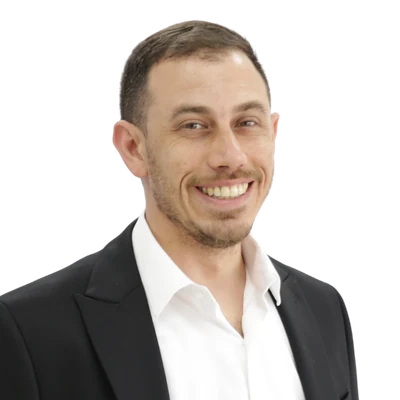
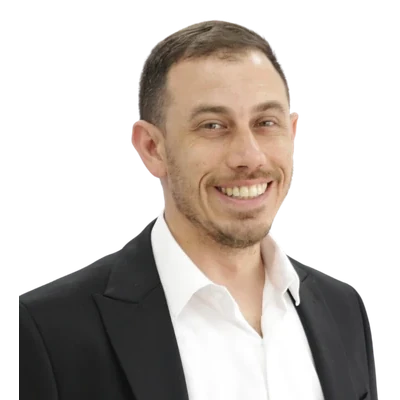
Fix image centering (video poster, half-body portrait) and floating dock/accessibility overlap on mobile
Claude-Session: https://claude.ai/code/session_01CgQkW4uu6py8E592ZgRHUt

Changed region(s): [[0.0, 0.03, 0.96, 1.0], [0.3, 0.93, 0.36, 1.0], [0.27, 0.84, 0.3, 0.93]]

diff --git a/assets/css/tico.css b/assets/css/tico.css
@@ -7,7 +7,7 @@
   color-scheme:light;
 }
 *,*::before,*::after{box-sizing:border-box}
-html{scroll-behavior:smooth;scroll-padding-top:96px}
+html{scroll-behavior:smooth;scroll-padding-top:104px}
 body{margin:0;background:var(--bg);color:var(--ink);font-family:var(--f-display);line-height:1.6;overflow-x:hidden;
   padding-left:max(16px,env(safe-area-inset-left,0px));padding-right:max(16px,env(safe-area-inset-right,0px));padding-block:0 0}
 .page{max-width:1200px;margin:0 auto}
@@ -393,7 +393,7 @@ footer.site{align-items:center}
 .meet,.community{margin-bottom:96px}
 .meet-grid{display:grid;grid-template-columns:1.15fr .85fr;gap:20px;margin-top:20px;align-items:stretch}
 .vid{position:relative;display:block;width:100%;min-height:360px;padding:0;border:0;cursor:pointer;border-radius:32px;overflow:hidden;background:linear-gradient(160deg,#3aa869,#2E8B57 55%,#1d6b40);box-shadow:0 30px 60px -30px rgba(46,139,87,.6)}
-.vid img{position:absolute;bottom:0;inset-inline-end:6%;height:96%;width:auto;filter:drop-shadow(0 20px 24px rgba(0,0,0,.25))}
+.vid img{position:absolute;bottom:0;left:50%;transform:translateX(-50%);height:96%;width:auto;filter:drop-shadow(0 20px 24px rgba(0,0,0,.25))}
 .vid .play{position:absolute;inset-inline-start:8%;top:50%;transform:translateY(-50%);width:96px;height:96px;border-radius:50%;background:#fff;color:var(--g-700);display:grid;place-items:center;box-shadow:0 16px 36px rgba(0,0,0,.25);transition:transform .3s var(--ease)}
 .vid .play svg{width:38px;height:38px;margin-inline-start:4px}
 .vid:hover .play{transform:translateY(-50%) scale(1.08)}
@@ -406,7 +406,7 @@ footer.site{align-items:center}
 .idcard dl{margin:0;display:grid;gap:14px}
 .idcard dt{font:700 11px var(--f-display);letter-spacing:.14em;color:var(--muted);margin-bottom:2px}
 .idcard dd{margin:0;font:700 19px/1.3 var(--f-serif);color:var(--ink)}
-@media(max-width:860px){.meet-grid{grid-template-columns:1fr}.vid{min-height:300px}.idbody{grid-template-columns:84px 1fr}.idph{width:84px;height:108px}.idph img{width:122px}}
+@media(max-width:860px){.meet-grid{grid-template-columns:1fr}.vid{min-height:300px}.vid .play{width:72px;height:72px;inset-inline-start:7%}.vid .play svg{width:28px;height:28px}.idbody{grid-template-columns:84px 1fr}.idph{width:84px;height:108px}.idph img{width:122px}}
 .comm-grid{display:grid;grid-template-columns:1.1fr .9fr;gap:20px;margin-top:20px}
 .pod{position:relative;display:flex;justify-content:space-between;gap:20px;padding:clamp(24px,4vw,40px);border-radius:32px;text-decoration:none;color:#fff;background:linear-gradient(160deg,#2E8B57,#1d6b40);overflow:hidden;transition:transform .25s var(--ease)}
 .pod-row{display:flex;gap:10px;flex-wrap:wrap;margin-top:10px}
@@ -470,7 +470,8 @@ body.a11y-spacing{line-height:2!important;letter-spacing:.04em!important}
 body.a11y-no-anim *,body.a11y-no-anim *::before,body.a11y-no-anim *::after{animation:none!important;transition:none!important}
 
 /* accessibility widget */
-.a11y{position:fixed;bottom:84px;left:16px;z-index:60}
+.a11y{position:fixed;bottom:16px;left:16px;z-index:60;transition:bottom .35s var(--ease)}
+body.dock-on .a11y{bottom:84px}
 .a11y-btn{width:52px;height:52px;border-radius:50%;border:0;cursor:pointer;display:grid;place-items:center;background:var(--g-950);color:#fff;box-shadow:0 8px 24px rgba(0,0,0,.28);transition:background .2s,transform .2s var(--ease)}
 .a11y-btn:hover{background:var(--g-600);transform:scale(1.06)}
 .a11y-panel{position:absolute;bottom:62px;left:0;width:268px;background:#fff;border:1px solid var(--line);border-radius:20px;box-shadow:0 24px 60px -12px rgba(0,0,0,.3);overflow:hidden;font-family:var(--f-display)}
@@ -487,7 +488,7 @@ body.a11y-no-anim *,body.a11y-no-anim *::before,body.a11y-no-anim *::after{anima
 .a11y-tog label{display:flex;justify-content:space-between;align-items:center;gap:10px;cursor:pointer;font-size:13px;font-weight:700}
 .a11y-tog input{width:18px;height:18px;accent-color:var(--g-600)}
 .a11y-stmt{display:block;text-align:center;padding:8px;color:var(--g-700);font-size:13px;font-weight:700;text-decoration:none}
-@media(max-width:900px){.a11y{bottom:92px}}
+@media(max-width:900px){.a11y{bottom:12px;left:12px}.a11y-btn{width:44px;height:44px}body.dock-on .a11y{bottom:84px}}
 
 /* page head used by inner pages */
 .phead{padding:28px 0 8px}
@@ -515,7 +516,7 @@ body.a11y-no-anim *,body.a11y-no-anim *::before,body.a11y-no-anim *::after{anima
 .split .copy p strong{color:var(--ink)}
 .split .pic{position:relative;height:460px;border-radius:32px;overflow:hidden;background:linear-gradient(160deg,#3aa869,#2E8B57 55%,#1d6b40)}
 .split .pic img{position:absolute;bottom:0;left:50%;transform:translateX(-50%);height:96%;width:auto;filter:drop-shadow(0 20px 24px rgba(0,0,0,.25))}
-.split .pic.sq img{height:auto;width:78%;bottom:-6%}
+.split .pic.sq img{height:auto;width:100%;max-width:none;bottom:-8%}
 @media(max-width:860px){.split{grid-template-columns:1fr}.split .pic{height:380px}}
 
 /* cards grid (the former "network" cards) */

diff --git a/assets/js/tico.js b/assets/js/tico.js
@@ -107,7 +107,11 @@
     if (!dock) return;
     var target = $('#finder') || $('#form'), hidden = false;
     if (target) { var r = target.getBoundingClientRect(); hidden = r.top < window.innerHeight * 0.6 && r.bottom > window.innerHeight * 0.3; }
-    dock.classList.toggle('show', window.scrollY > 520 && !hidden);
+    var ft = $('footer'), nearEnd = false;
+    if (ft) nearEnd = ft.getBoundingClientRect().top < window.innerHeight - 40;
+    var show = window.scrollY > 520 && !hidden && !nearEnd;
+    dock.classList.toggle('show', show);
+    D.body.classList.toggle('dock-on', show);
   }
   if (dock) {
     var main = $('a.main', dock);
